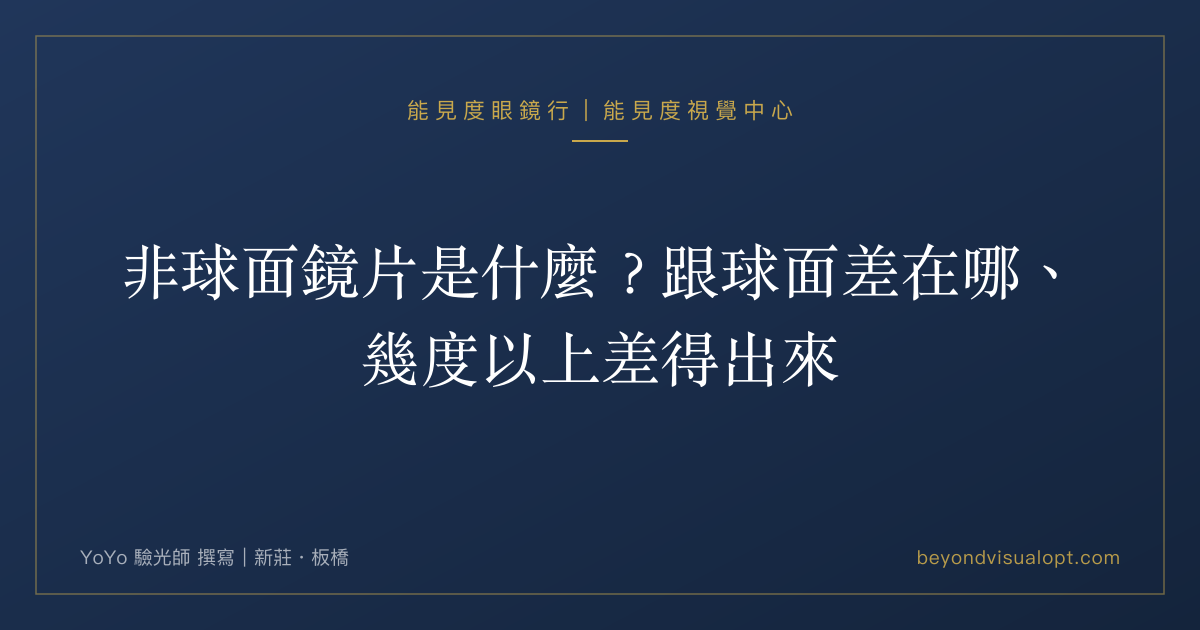
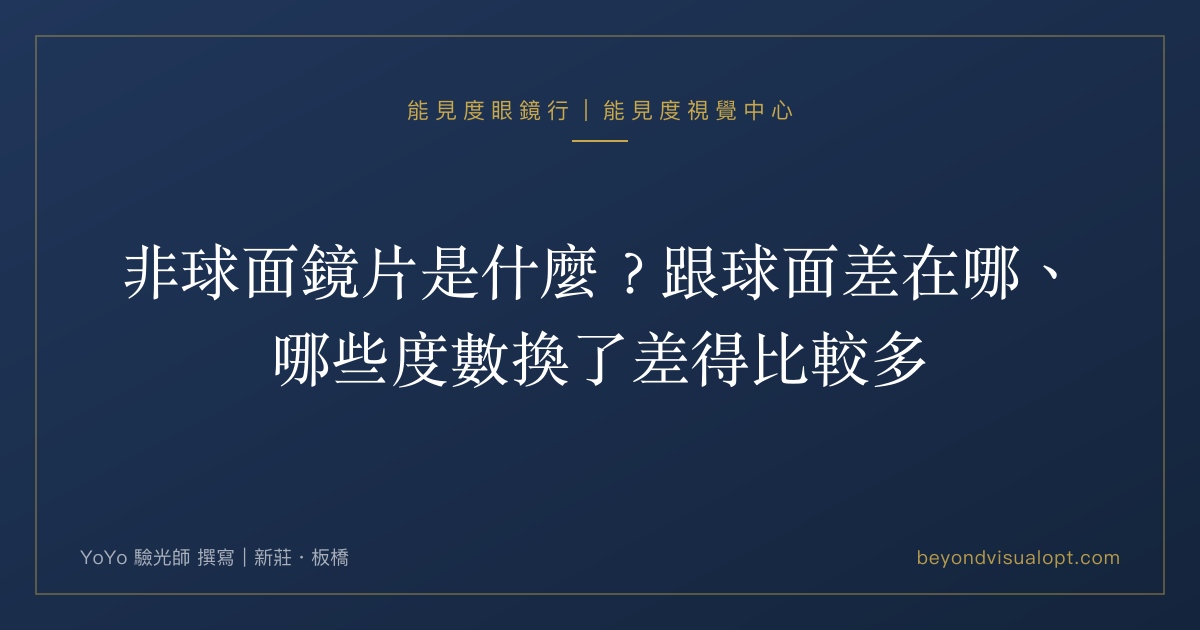
高度近視分類第 4 步：新增不等視、白內障單眼、高度近視看眼科 3 篇＋出處統一改國健署／EyeWiki（官網部→口語部→國文編審→法務，老闆過目）

Changed region(s): [[0.2158, 0.5127, 0.7708, 0.6333]]

diff --git a/src/data/categories.ts b/src/data/categories.ts
@@ -76,9 +76,9 @@ export const CATEGORIES: Category[] = [
   {
     slug: 'high-myopia', name: '高度近視', keyword: '高度近視眼鏡', guide: '/guide/high-myopia/',
     subs: [
-      { slug: 'fitting', name: '高度近視配鏡', guide: '/guide/high-myopia/', posts: ['high-myopia-glasses-guide', 'high-myopia-lens-brand-choice'] },
+      { slug: 'fitting', name: '高度近視配鏡', guide: '/guide/high-myopia/', posts: ['high-myopia-glasses-guide', 'high-myopia-lens-brand-choice', 'high-myopia-eye-check'] },
       { slug: 'astigmatism', name: '散光與變形', posts: ['astigmatism-glasses-distortion', 'myopia-vs-astigmatism'] },
-      { slug: 'anisometropia', name: '兩眼度數差很多', guide: '/guide/aniseikonia/', posts: [] },
+      { slug: 'anisometropia', name: '兩眼度數差很多', guide: '/guide/aniseikonia/', posts: ['anisometropia-glasses', 'cataract-one-eye-glasses'] },
     ],
   },
   {

diff --git a/src/content/blog/anisometropia-glasses.md b/src/content/blog/anisometropia-glasses.md
@@ -1,0 +1,117 @@
+---
+title: 兩眼度數差很多，眼鏡怎麼配？差幾度開始有感、低頭看書為什麼更暈
+date: 2026-10-25
+tag: "高度近視"
+excerpt: 左右眼度數差很多，眼鏡上會同時出現三件事：兩片一厚一薄、兩眼看到的東西一大一小、低頭時兩片鏡片把影像偏開的量不一樣。差多少開始有感，有常見參考值，沒有一刀切的門檻。框架眼鏡和隱形眼鏡各能做到哪裡、成人的兩眼度數能不能重新分配、小孩為什麼要先找眼科醫師，新莊、板橋能見度的驗光人員依序說明。
+seoTitle: 兩眼度數差很多怎麼配眼鏡？差幾度有感｜新莊板橋能見度
+seoDescription: 兩眼度數每差 100 度，戴框架眼鏡時兩眼影像大小約差 1%。差到 300 度以上可能超過 3%（AAO EyeWiki），低頭看書時兩片鏡片的上下稜鏡也不一樣。成人的兩眼度數怎麼分配，可以戴著試鏡架比較，孩子則先找眼科醫師。新莊、板橋能見度量得出兩眼影像大小差多少。
+keywords: 兩眼度數差很多, 左右眼度數不一樣, 兩眼度數差太多配眼鏡, 不等視眼鏡, 不等像, 兩眼度數差多少會暈, 新莊配眼鏡, 板橋配眼鏡, 能見度眼鏡
+references:
+  - title: "American Academy of Ophthalmology EyeWiki: Aniseikonia（框架矯正每 1D 不等視約產生 1% 不等像、3D 以上可能超過 3%、常見耐受參考 2%–3% 與個體差異、Knapp 定律）"
+    url: "https://eyewiki.org/Aniseikonia"
+---
+
+## 拿下隱形眼鏡以後，走到浴室要扶著牆
+
+他戴隱形眼鏡快十年，白天沒什麼問題。麻煩在晚上：鏡片一拿下來，手邊只剩一副好幾年前配的眼鏡，戴著從房間走到浴室，手要一路扶著牆。坐下來沒多久，他問：「左右眼差了三百度，是不是只能戴隱形眼鏡？」
+
+不一定只能戴隱形眼鏡，只是眼鏡要多顧幾件事。度數差到這個程度，兩片鏡片會在左右眼之間製造落差，厚薄、看出去的大小、低頭時視線穿過的位置，三樣都不一樣。讓他扶著牆走路的是哪一樣，得一項一項量。
+
+## 兩眼度數差多少會開始有感
+
+度數的單位是 D（屈光度），1.00D 就是平常說的 100 度。兩眼差多少會開始有感，沒有一條人人適用的線，倒是有常見的參考值。美國眼科醫學會（AAO）的 EyeWiki〈Aniseikonia〉條目給的經驗法則是：用框架眼鏡矯正時，兩眼度數每差 1D，兩眼看到的影像大小大約差 1%；兩眼差到 3D（300 度）以上，影像大小的差可能超過 3%，到了臨床上要留意的程度。同一條目也提到，常被拿來當耐受參考的範圍是 2% 到 3%。
+
+同一份資料緊接著就說，這個範圍因人而異：有人影像大小差不到 1%，立體感就受影響；也有人差到 10% 以上，立體感照樣正常。所以「我才差 250 度，應該還好吧」這種算法不太可靠。度數差之外，一天低頭看近多久、散光有沒有一起差、眼鏡坐在臉上的位置，都會改變感受。參考值的用處，是提醒驗光人員這一次要多量哪幾項。
+
+兩眼度數其實差不多，只是換了新眼鏡才開始暈，原因大概在別處，先拿自己的狀況去對[新眼鏡戴了頭暈正常嗎？](/blog/glasses-dizzy/)那張症狀表。
+
+## 兩眼度數差很多，眼鏡上會出現的 3 件事
+
+三件事一直都在，只是各挑不同的時候冒出來。
+
+### 兩片鏡片厚度不一樣
+
+度數越深，近視鏡片的邊緣就越厚。兩眼差三百度，同一支框裝上去，一片的側邊明顯比另一片寬，從正面看，一邊的鏡圈像是塞得比較滿。重量也跟著分出輕重，深的那一片重一些，鏡架戴久了，有時會往重的那邊斜一點，調鏡架時要把它算進去。
+
+厚度怎麼跟著折射率、鏡框大小走，[高度近視要選蔡司還是 HOYA？](/blog/high-myopia-lens-brand-choice/)的例子是兩支尺寸不同的框。兩眼差很多的人讀那篇，可以把左右眼的度數各代一次：同一支框，兩片的厚薄差會跟著框的大小一起放大。
+
+### 兩眼看到的大小不一樣
+
+鏡片除了把焦點對回來，也會改變東西看起來的大小。近視鏡片讓眼前的東西小一圈，遠視鏡片讓它大一圈，度數越深，這一圈越明顯。兩眼差很多時，深的那一眼透過鏡片看到的杯子、招牌、螢幕上的字，都比另一眼小一點。大腦拿到一大一小兩張影像，得一直出力把它們湊合起來，撐一整天下來，常見的是眼睛痠、頭發脹。
+
+影像大小不只跟度數有關，鏡片前表面的彎度（基弧）、中心厚度、鏡片離眼睛多遠，也都會牽動它。[不等像完整指南](/guide/aniseikonia/)的放大率那一段，把這四件事分開談了。
+
+### 視線往下，兩眼的稜鏡不一樣
+
+看遠的時候，視線大致從鏡片的光學中心附近穿過去。低頭看書、滑手機，或走路時看腳下，視線就移到鏡片下半部。鏡片在光學中心以外的位置，會把光往一側偏，偏多少，Prentice 法則算得出來：那一點離光學中心幾公分，乘上鏡片的度數，就是幾個稜鏡度。
+
+假設右眼 -2.00D、左眼 -5.00D，看書時視線往下移 8mm。右眼那片偏出 0.8 × 2＝1.6 個稜鏡度，左眼 0.8 × 5＝4.0 個，兩眼之間上下差了 2.4 個。眼睛往內、往外轉很靈活，一高一低的錯開，卻很難靠自己湊齊，所以有人看遠還好，一低頭就暈。開頭那位晚上走去浴室，眼睛盯著的正是腳下的地板。
+
+## 兩眼度數差很多，配鏡能下手的 3 個地方
+
+### 鏡片：先量影像大小差，再決定基弧與中心厚度
+
+影像大小既然跟基弧、中心厚度綁在一起，鏡片就不是只能照度數做。驗光人員會先量出兩眼影像大小差多少，再決定要不要在度數正確的前提下指定基弧與中心厚度，把差距拉近到比較好融合的範圍。能拉近多少，要看度數差與鏡框條件，量過才知道。
+
+低頭看近時兩眼的稜鏡差，在配鏡上有處理方式，需不需要，要量過才知道。兩眼的瞳距、瞳孔高度也要分開量，兩片鏡片的光學中心才會各自落在對的位置。
+
+### 鏡架：兩片鏡片離眼睛一樣遠
+
+鏡片離眼睛多遠，叫頂點距離。這段距離差個一兩毫米，眼睛實際收到的度數和看到的大小就跟著挪，度數越深挪得越多。兩眼差很多的人，深的那一邊對這段距離特別敏感：鼻托塌了一邊、鏡腳被撐開，兩片鏡片一前一後，兩眼原本的落差又被推開一點。鏡架因此要調到左右對稱，兩邊鏡片離眼睛一樣遠，之後鏡架變形了也要回來調。-4.00D 到 -10.00D 各會差多少，[頂點距離是什麼？高度數配眼鏡為什麼要算它](/blog/vertex-distance/)每一級都列了數字。
+
+### 隱形眼鏡：鏡片貼在眼睛上
+
+隱形眼鏡直接貼在角膜上，鏡片跟眼睛之間幾乎沒有距離，鏡片本身帶來的放大縮小，比框架眼鏡小得多。眼睛往哪裡轉，鏡片就跟到哪裡，低頭看書，前面講的那種一高一低的錯開，隱形眼鏡不會有。不過 Knapp 定律提醒了另一面。理論上，度數差出在角膜或水晶體的人，換成隱形眼鏡，兩眼影像大小會比較靠近；度數差出在眼球長短的人，反倒可能是框架眼鏡讓兩眼大小比較接近。眼睛不見得照理論長，要量了才算數。
+
+隱形眼鏡再合適，晚上、眼睛不舒服、生病的日子還是要拿下來，所以就算平常戴隱形眼鏡，手邊那副眼鏡也值得配到戴得住。能不能戴、戴哪一種，驗光人員要先檢查過眼睛；依驗光人員法第十二條，十五歲以下者的隱形眼鏡驗配須在眼科醫師指導下為之，未滿六歲者不予驗配。
+
+#### 硬式隱形眼鏡（RGP）
+
+想試 RGP，新莊或板橋都可以。鏡片硬、形狀固定，配之前要先看角膜的形狀，試戴片一片一片確認貼合；日常的戴法和清潔，留給[RGP 硬式隱形眼鏡完整指南](/guide/rgp-contact-lens/)。
+
+#### 軟式隱形眼鏡
+
+軟式鏡片順著角膜的形狀服貼，規範一樣照上面那條第十二條。度數深的那一眼散光多不多、一天要戴幾個小時，都會影響選擇，現場檢查過再談。
+
+## 孩子的視力單一眼好、一眼差，診斷和治療在眼科
+
+學校的視力檢查單帶回家，一眼看到最下面幾行，另一眼掉了好幾行，孩子自己卻說看得很清楚。左右眼差這麼多，背後可能跟弱視、斜視有關；是不是、要怎麼治療，都由眼科醫師診斷和處理。要不要戴眼鏡、度數怎麼給、需不需要其他處置，都照眼科醫師的安排。
+
+配鏡的先後，法規也排好了：依《驗光人員法》第十二條與施行細則，未滿六歲不得由驗光人員驗光；六歲到十五歲第一次驗光配鏡，須先經醫師確診為非假性近視；十五歲以下的驗光，在眼科醫師指導下進行。孩子幾歲該顧什麼，[兒童近視追蹤完整指南](/guide/children-myopia/)照年齡一段段排好了。
+
+## 新莊、板橋門市資訊與預約
+
+雙眼視覺評估是每一次驗光都有的，兩間店一樣。兩眼度數差很多，要量的比一般多：完整驗光 45–60 分鐘，再加上多出來的那幾項，大約要 60–90 分鐘。新莊店的 TOPCON CA-800，每位顧客的角膜都會拍，考慮隱形眼鏡時，角膜的形狀是先要看的資料；板橋店有裂隙燈。
+
+- 能見度視覺中心（比泱驗光所），新莊店：新北市新莊區中正路 419-1 號，捷運新莊站，02-2206-6700，YoYo 驗光師主理
+- 能見度眼鏡行（能見度驗光所），板橋店：新北市板橋區雙十路二段 47 巷 28 號，捷運江子翠站，02-2253-1246
+
+取件後 2 週內，門市會主動追蹤，這段時間低頭看書或上下樓梯覺得不對勁的，到時候一起說；在能見度配的眼鏡，取件後的鏡架調整不另外收費。十五歲以下的孩子，請照上一段先給眼科醫師檢查。成人可以直接到[預約視覺諮詢](/booking/)約新莊或板橋的時間。
+
+## 深的那一眼少給一點，厚薄與稜鏡的落差也跟著縮小
+
+前面講的鏡片、鏡架、隱形眼鏡，都把驗光單上的度數當成不動的那一項，再去顧它帶出來的落差。單子上那兩個數字，是每一眼各自讀到最清楚的那一格；兩眼差很多時，深的那一眼配到最清楚，那片鏡片的厚度、低頭時把影像偏開的量也一起到頂，兩眼在這兩項上的落差就被推到最大。
+
+成人兩眼度數差很多，度數本身也能拿出來談。深的那一眼少給一點，那一眼看遠會軟一些，換來的是兩片鏡片的厚薄差、低頭看近時的稜鏡差都跟著縮小。兩眼影像大小的差就不一定會縮：前面 Knapp 定律那一段提過，要看度數差出在眼球長短（眼軸），還是出在角膜、水晶體，得量了才知道。有人試過，覺得兩眼一起看出去穩多了；也有人寧可每一眼都清楚，落差交給鏡片參數和鏡架去顧。適合哪一種，得戴著試鏡架、兩隻眼睛都睜開來看，看遠處，也低頭看手機，再站起來走幾步。常開車的人，看遠要夠清楚，深的那一眼能少給的空間就小。
+
+這跟一般人「度數配淺一點」不太一樣。[眼鏡度數要配足，還是配淺一點？](/blog/glasses-prescription-full-or-less/)提過，兩眼度數相近的人只退一眼，會讓兩眼一清一糊，所以要退的話，兩眼通常一起退。兩眼差很多的人要顧的平衡多了一層：除了兩眼清不清楚，還有兩張影像大小合不合、上下齊不齊。舊眼鏡和隱形眼鏡的度數也帶著，試的時候，拿現在戴慣的那一組當起點。
+
+這個討論只限成人。孩子度數深的那一眼要是一直看不清楚，牽涉到弱視，度數怎麼給由眼科醫師決定，不在試鏡架上商量。
+
+## 左右眼度數不一樣，配眼鏡常見問題
+
+### Q：兩眼度數差很多，可以一眼配淺一點嗎？
+
+成人可以討論。兩眼度數差很多時，度數深的那一眼少配一些，那片鏡片的厚度和低頭看近時的稜鏡差會小一點，代價是那一眼看遠沒那麼銳利。兩眼影像大小的差會不會一起變小，要看度數差出在哪裡，得量了才知道。要不要這樣配、少配多少，要戴著試鏡架看遠、看近都比較過才定。常開車的人看遠不能打太多折，能少配的就有限。十五歲以下的孩子不在此列，度數依眼科醫師的指示。
+
+### Q：兩眼度數差很多，眼鏡戴久了為什麼容易歪一邊？
+
+度數深的那一片比較厚、也比較重，鏡架長時間戴下來，有時會往重的那一邊斜；鼻托塌了一邊、鏡腳被撐開，也會讓兩片鏡片一前一後。兩眼度數差很多的人，深的那一眼對鏡片離眼睛多遠特別敏感，鏡架一歪，兩眼原本的落差就又被推開一點。覺得眼鏡歪了，就帶回門市調。
+
+### Q：兩眼度數差很多，可以配多焦點嗎？
+
+可以評估，不過要多看一件事。多焦點鏡片看近的區域在鏡片下方，看書時視線往往比戴單光眼鏡時更往下，兩片鏡片在那個位置的上下稜鏡差也就更大。這在配鏡上有處理方式，需不需要，要量過才知道。兩眼的配鏡高度要分開量，鏡架左右也得調到一樣高，看近的區域才會落在兩眼視線經過的地方。多焦點本身怎麼挑、剛戴怎麼適應，翻開[老花眼鏡完整指南](/guide/progressive-lens/)就有。
+
+---
+
+兩眼度數差很多的人，眼鏡要過的那一關，常常不在視力表最下面那一行，在晚上從房間走到浴室的那幾步路。

diff --git a/src/content/blog/high-myopia-eye-check.md b/src/content/blog/high-myopia-eye-check.md
@@ -1,0 +1,96 @@
+---
+title: "高度近視為什麼要定期看眼科？視網膜剝離、黃斑部病變與青光眼"
+date: 2026-10-25
+tag: "高度近視"
+excerpt: "高度近視多半是眼軸拉長，眼球前後變長，裡面那層視網膜跟著被撐薄。依國健署公開衛教資料與美國眼科醫學會 EyeWiki，這樣的眼睛往後碰上視網膜剝離、黃斑部病變、青光眼的機會較高，要由眼科醫師檢查；飛蚊、閃光突然變多請當天就醫。"
+seoTitle: "高度近視要看眼科嗎？眼底檢查與視網膜剝離、黃斑部病變、青光眼"
+seoDescription: "600 度以上的近視大多是眼球前後變長，視網膜跟著變薄，三種眼睛疾病的機會較高，要由眼科醫師檢查。多久檢查一次、眼底要不要一併查，由眼科醫師依眼睛狀況決定；飛蚊、閃光突然多起來，當天就去眼科。"
+keywords: "高度近視眼底檢查,高度近視視網膜剝離,高度近視要看眼科嗎,高度近視多久檢查一次,高度近視併發症,近視性黃斑部病變,青光眼,新莊配眼鏡,板橋配眼鏡"
+---
+
+## 「眼鏡配好了、看得很清楚，還需要看眼科嗎？」
+
+新眼鏡一戴上，先往窗外看，找最遠那塊招牌上的小字，再低頭滑一下手機。遠的近的都清楚了，有人會順口補一句：「那這樣，還需要去看眼科嗎？」近視在 600 度以上的話，答案是要，理由不在這副眼鏡上。
+
+## 高度近視多半是眼球變長，視網膜跟著被撐薄
+
+一般的眼睛，光線穿過角膜和水晶體，剛好在最裡面那層視網膜上對焦。近視是焦點落得太早，光還沒走到視網膜就先聚起來了。度數深到 600 度以上，最常見的原因是眼球前後的長度，也就是眼軸，長得比一般人長。焦點其實沒有往前跑，是那面牆往後退了。
+
+眼球變長，包在外面的那幾層並不會多長出材料。同一片組織要鋪滿更大的面積，只能被撐開。EyeWiki 是美國眼科醫學會經營的眼科知識庫，裡面寫著，眼軸拉長會讓視網膜、脈絡膜和鞏膜一起變薄。拿一顆氣球來想：吹得越大，橡皮並沒有變多，只是越來越薄，對著燈看，最鼓的那一面甚至會透光。
+
+戴上眼鏡，鏡片把焦點往後送，重新落回視網膜上，看出去就清楚了。可是那層被撐薄的組織，鏡片碰不到。眼鏡戴再多年，也不會讓它厚回來；高度近視要定期給眼科醫師看，盯的就是這一層。
+
+## 高度近視風險較高的 3 種眼睛疾病
+
+依國健署公開衛教資料與美國眼科醫學會 EyeWiki，眼睛近視到這個程度，往後碰上下面三種疾病的機會比一般人高（[國健署「近視是疾病 打敗惡視力」宣導海報](https://www.hpa.gov.tw/Pages/Detail.aspx?nodeid=864&pid=10140)；三種疾病各自的 EyeWiki 條目列在每一段後面）。每一種都要由眼科醫師檢查、診斷，這裡只講它們是什麼。
+
+### 視網膜剝離
+
+視網膜是貼在眼球內壁的一層薄膜，負責把光變成訊號送進大腦。視網膜剝離，就是這層膜跟底下那一層分開了，中間積了液體。EyeWiki 把高度近視列為「裂孔性視網膜剝離」的風險因子：視網膜先破了一個小洞，液體從洞口滲到底下，膜就被一點一點掀起來。剝離前後常見的感覺，是飛蚊突然變多、眼角出現閃光，或視野有一塊像被簾子遮住。有沒有裂孔、有沒有剝離、要怎麼處理，都由眼科醫師檢查後決定。
+
+定義參考：[AAO EyeWiki〈Retinal Detachment〉](https://eyewiki.org/Retinal_Detachment)
+
+### 黃斑部病變
+
+黃斑部在視網膜正中央，看字、認臉、穿針這類要看細節的事，靠的都是它。高度近視這裡講的是近視性黃斑部病變：眼球被撐長以後，黃斑部附近的組織變薄、萎縮，可能出現細小的裂紋，或長出不該長的新生血管。它跟年紀大才出現的老年性黃斑部病變，是不同的成因。EyeWiki 描述的感覺，是正中間一小塊糊掉、出現暗點，或直線看起來彎彎的。黃斑部是不是出了問題、是哪一種，眼科醫師檢查過才說得準。
+
+定義參考：[AAO EyeWiki〈Pathologic Myopia (Myopic Degeneration)〉](https://eyewiki.org/Pathologic_Myopia_(Myopic_Degeneration))
+
+### 青光眼
+
+青光眼是視神經慢慢受損，視野從邊緣開始一點一點缺掉。EyeWiki 在隅角開放型青光眼那一篇寫到，好幾項研究都顯示近視是它的風險因子；而且這種青光眼通常要到視野已經缺了一大塊，本人才會察覺。也因為早期幾乎沒感覺，只能靠眼科醫師量眼壓、看視神經、做視野檢查，判斷有沒有青光眼、需不需要追蹤。
+
+定義參考：[AAO EyeWiki〈Primary Open-Angle Glaucoma〉](https://eyewiki.org/Primary_Open-Angle_Glaucoma)
+
+## 飛蚊突然變多、眼角一直閃光，當天就去眼科
+
+三種病裡，有的會先給一點訊號。眼前的黑點、細絲一下子多了一大把，或眼角一直有閃光，請當天就去看眼科，別拖到原本約好的回診日，也不必先來配眼鏡。視野邊緣好像有一片東西擋著、正中間突然糊掉、直線變彎，也請儘速到眼科。
+
+青光眼大多不會這樣提醒你，這也是高度近視的人要照時間去檢查的原因。其他的不舒服，拿不準該先找誰的，[眼睛不舒服要掛眼科還是去驗光所](/guide/eye-doctor-or-optometrist/)就是為這種時候寫的。
+
+## 看眼科的那一趟，醫師會看哪些地方
+
+高度近視的人去眼科，醫師關心的是眼球裡面的結構：視網膜周邊有沒有變薄或破洞、黃斑部好不好、視神經的樣子，還有眼壓。實際要做哪幾項、要不要加做影像檢查，依眼科醫師判斷。
+
+多久去一次，也由眼科醫師依你的眼睛狀況決定，不要自己估。
+
+掛號時直接講自己近視大概幾度、戴眼鏡戴了多少年，醫師安排檢查時就多一條線索。以前做過雷射、動過眼睛手術，或家裡有人得過視網膜剝離、青光眼，也一起說。
+
+## 新莊、板橋門市資訊與預約
+
+到店裡，先驗光、做雙眼視覺評估；框挑好戴上之後，再量頂點距離、單眼瞳距和配鏡高度，兩間店都做這幾項。
+
+驗光途中你說這陣子眼前的飛蚊、閃光一下子多了，我們會請你當天就去眼科，眼鏡改天再配。度數已經調到最合適，視力表上還是有幾行讀不出來的，驗光人員會照《驗光人員法》第十二條第三項，轉介眼科醫師。
+
+兩間店的位置：
+
+- 捷運新莊站附近：新莊店，能見度視覺中心（比泱驗光所），新北市新莊區中正路 419-1 號，02-2206-6700，YoYo 驗光師主理
+- 捷運江子翠站附近：板橋店，能見度眼鏡行（能見度驗光所），新北市板橋區雙十路二段 47 巷 28 號，02-2253-1246
+
+要配眼鏡，用[預約視覺諮詢](/booking/)挑時段，那天留一個半小時左右。
+
+## 眼科說眼底沒事，眼鏡這一邊還沒算完
+
+聽到醫師說眼底沒事，很容易連臉上那副眼鏡也一起放了心。眼底檢查看的是眼球裡面；鏡片坐在眼前哪個位置，不在那一趟的範圍裡，而度數深的人，偏偏對這個位置最敏感。
+
+拿右眼 -8.00D、左眼 -10.00D 來算，新框比舊框貼近 2mm，用 Fc＝F ÷（1 − dF）換一下：右眼 -8.00 ÷〔1 − 0.002 ×（-8.00）〕＝ -8.00 ÷ 1.016 ≒ -7.87D，左眼 -10.00 ÷ 1.02 ≒ -9.80D。度數照舊訂，右眼等於多給了約 0.13D，大概 13 度；左眼多了約 20 度。
+
+兩眼各自多出來的量不一樣，兩眼之間原本的度數差，也就不是驗光單上寫的那個數了。每換一支框，頂點距離和兩眼的度數都得照新框重算，舊單子不能直接拿去訂；量法在[高度近視配眼鏡要量哪幾項？](/blog/high-myopia-glasses-guide/)講頂點距離的那一段。
+
+## 高度近視眼睛健康常見問題
+
+### Q：高度近視做眼底檢查，一定要散瞳嗎？
+
+要不要散瞳、做哪幾項，依眼科醫師判斷。散瞳是點藥讓瞳孔放大，醫師比較容易看到視網膜周邊；點完之後有一段時間可能會怕光、看近模糊。預約眼科時，可以先問清楚當天會不會散瞳，會的話，回程最好別自己開車。散瞳屬醫療行為，由眼科醫師進行，驗光所不做。
+
+### Q：高度近視一定會得這些病嗎？
+
+不一定。依國健署公開衛教資料與美國眼科醫學會 EyeWiki，高度近視會讓視網膜剝離、黃斑部病變、青光眼的機會變高，講的是機率，不是每個人都會走到那一步。比較麻煩的是像青光眼這種，早期幾乎沒有感覺，所以多久檢查一次，交給眼科醫師依你的眼睛狀況決定。
+
+### Q：配眼鏡的時候，驗光人員看得出視網膜有沒有問題嗎？
+
+看不出來。能見度兩間店都沒有眼底檢查的設備，也不量眼軸。新莊店那台 TOPCON CA-800 角膜地形圖暨像差儀，照出來的是角膜表面的形狀，沒有拍眼底的功能。視網膜的狀況要找眼科醫師。要是驗光那天，矯正視力停在正常值以下，換到哪一組鏡片都沒有起色，驗光人員會照《驗光人員法》第十二條第三項，把你轉介給眼科醫師。
+
+---
+
+窗外那塊招牌看清楚之後，眼科回診的日子，也照醫師排的去。

diff --git a/src/content/blog/cataract-one-eye-glasses.md b/src/content/blog/cataract-one-eye-glasses.md
@@ -1,0 +1,98 @@
+---
+title: 白內障只開了一眼，眼鏡怎麼配？術後兩眼度數差很多的那段時間
+date: 2026-10-25
+tag: "高度近視"
+excerpt: 一眼做完白內障手術、另一眼還沒開，舊眼鏡戴上去反而暈，拿掉眼鏡也看不了書。術後那一眼的度數換了，兩眼的落差可能一下子拉到好幾百度，影像大小和看近的度數都會跟著變。手術和術後多久能配，聽眼科醫師的。過渡期那副眼鏡可以往哪幾個方向配，新莊、板橋能見度把常見的三種攤開來談。
+seoTitle: 白內障開完一眼怎麼配眼鏡？另一眼還沒開的過渡期｜新莊、板橋能見度
+seoDescription: 白內障手術換上人工水晶體後，開過的那一眼度數會變，跟沒開的那一眼可能差好幾百度，戴回舊眼鏡容易暈，看近也可能要另外加度數。術後多久能配，等眼科醫師說度數穩定再配；過渡期常見的方向有舊眼鏡只換一片、隱形眼鏡、先暫用，哪一種適合依醫師建議與驗光評估。
+keywords: 白內障手術後配眼鏡, 單眼白內障術後眼鏡, 白內障開完一眼, 白內障術後多久可以配眼鏡, 兩眼度數差很多, 新莊配眼鏡, 板橋配眼鏡, 能見度眼鏡
+---
+
+## 右眼開完白內障，戴回舊眼鏡反而暈
+
+右眼上個月做完白內障手術，左眼醫師說再等等。眼鏡拿下來，右眼看遠清清楚楚，左眼一片霧；戴回去，左眼清楚了，換右眼糊掉，兩眼一起看，整個人發暈。更麻煩的是看書：以前眼鏡一摘、報紙拿近一點就看得到，現在右眼不行了。
+
+## 手術換掉水晶體，度數也跟著換了
+
+水晶體是眼球裡的一片透鏡。白內障手術把它取出來，換上一片人工水晶體，而人工水晶體要選多少度，依眼科醫師建議，開刀前就定好了。所以開過的那一眼，度數跟術前可能已經是兩回事。
+
+度數深的人，這個落差格外明顯。拿兩眼原本都是 -6.00D 來說，假設開過的那一眼術後落在 0 度附近，另一眼還是 -6.00D，術後兩眼就差了 600 度。臉上那副眼鏡的兩片鏡片是照術前度數做的，現在只對得上沒開的那一眼。戴也不是、不戴也不是，就是這樣來的。
+
+## 一眼開完、一眼還沒開，兩眼會差在哪
+
+差到幾百度，麻煩就不只是哪一眼看不清楚。
+
+### 同一個東西，一邊看起來小一號
+
+透過近視鏡片看出去，東西會小一號，-6.00D 這種度數已經看得出來。一眼前面掛著 -6.00D 的鏡片，另一眼前面幾乎沒有度數，同一個東西看出去一邊小一點、一邊照原樣，大腦要把兩張影像疊成一張就吃力。眼睛往下看書的時候，視線落到鏡片下半部，一片幾乎不偏、一片偏得多，兩眼的影像還會上下錯開。
+
+這種情況有個名字，叫不等像。放大率受哪些條件左右、配鏡時能動到哪裡，[兩眼度數差很多：不等像完整指南](/guide/aniseikonia/)裡都有。
+
+### 看近可能要另外的度數
+
+原本的水晶體能自己變厚、變薄，看近時把焦點拉過來。人工水晶體有不同的設計，有的主要對在遠方，有的兼顧遠近；你放的是哪一種，開刀的眼科醫師手上有資料。主要對在遠方的那一種，看手機、看文件通常要另外加一點看近的度數。
+
+高度近視的人會特別有感。近視深的眼睛，本來就看得清近處，所以以前摘掉眼鏡就能看書；開過的那一眼不再近視，這一招就用不上了。過了四十歲，沒開刀的那一眼也有老花在走，看近要配單獨一副、遠近分開，還是漸進多焦點，各適合哪種人，[老花眼鏡完整指南](/guide/progressive-lens/)有一張方案表。
+
+## 術後多久可以配，先問眼科醫師
+
+等眼科醫師說度數穩定了再配，多久依醫師判斷。每個人不一樣，日子我們不會替醫師給。
+
+醫師點頭之後來驗光，請把眼科給的術後度數，或其他跟這次手術有關的資料帶著，驗光人員拿來跟當天驗出來的結果對一對。另一眼什麼時候開、要不要開，也先問清楚。術後眼睛要是出現跟平常不一樣的狀況，直接回開刀的那間眼科，不必等到配眼鏡那天；要先看眼科的情況不只這一種，[配眼鏡前要先看眼科嗎？](/blog/eye-exam-before-glasses/)裡還有別的。
+
+## 過渡期的幾種做法
+
+一眼開完、一眼還沒開的這段日子，常見的走法有三種。哪一種適合，依眼科醫師建議與驗光評估，也跟你每天要做的事有關：開不開車、看不看螢幕、書看得多不多。
+
+### 舊眼鏡只換開過刀那一眼的鏡片
+
+框留著，照術後的度數換掉開過刀那一眼的鏡片，另一片不動。能見度有只配鏡片的服務。自帶框的加工費依框型不同，做之前會先報給你；舊框能不能拆裝，要先看過框況。鏡片得另外做：庫存片 3–5 個工作天，訂製片 7–10 個工作天。[只配鏡片、鏡框自己帶可以嗎？](/blog/lens-only-service/)提醒了來店前要帶的兩樣東西。
+
+只換一片，兩片鏡片的度數還是差一大截，前面說的大小不一，換完也還在。
+
+### 隱形眼鏡
+
+度數還深的那一眼改戴隱形眼鏡。它直接戴在眼睛上，眼睛往下看，它也跟著往下，看書時眼前一直是鏡片中央，不會有鏡片下半部把影像偏開的事。兩眼影像大小能不能因此靠近一些，現場量了才有答案。
+
+成人才考慮這一條。兩隻眼睛各自能不能戴，先問眼科醫師，再讓驗光人員檢查角膜和淚液後決定。依《驗光人員法》第十二條，十五歲以下的隱形眼鏡驗配要在眼科醫師指導下進行，未滿六歲不驗配。
+
+### 先暫用
+
+先不做新的，手上的眼鏡照舊戴，等兩眼的度數都定下來，再一次重新驗光。暈得厲害、已經影響到開車騎車的話，就不適合硬撐，先跟眼科醫師和驗光人員講。
+
+## 新莊、板橋門市資訊與預約
+
+術後兩眼差這麼多，驗光人員會先量左右眼的影像大小差了多少，往下瞄著看近時，兩眼影像上下錯開多少也一起算；基弧、中心厚度要不要另外指定，在度數正確的前提下再決定。能拉近多少，量過才知道。
+
+驗光要 45–60 分鐘，過渡期要怎麼配也得坐下來談，加起來 60–90 分鐘，那天後面的行程別排太緊。取件後 2 週內，門市會主動追蹤；在能見度配的眼鏡，取件後的鏡架調整不另外收費。
+
+- 新北市新莊區中正路 419-1 號，捷運新莊站：能見度視覺中心（比泱驗光所），02-2206-6700，YoYo 驗光師主理
+- 新北市板橋區雙十路二段 47 巷 28 號，捷運江子翠站：能見度眼鏡行（能見度驗光所），02-2253-1246
+
+等眼科醫師那邊說可以了，就帶著舊眼鏡，在[預約視覺諮詢](/booking/)排一天過來。
+
+## 等第二眼手術的這段期間，眼鏡只能先求過得去
+
+站在眼鏡行的位置，整副重配、鏡片往上挑，都是做得成的生意。可是過渡期這副眼鏡能戴多久，由第二眼的手術日決定，鏡片挑得再好也延長不了：第二眼開完、度數穩定以後，兩眼的度數又會再變一次，這一副到時候大概就要退場。
+
+所以這段期間的眼鏡，目標不妨放低一點：每天非做不可的那幾件事看得清楚，戴著不至於暈到想摘掉，就算過關。一眼開過、一眼沒開，度數差擺在那裡，要戴回手術前那種兩眼一起看的輕鬆，本來就很難。
+
+第二眼什麼時候開，是眼科醫師跟你排的。排得近，先暫用常常就夠了；要是中間隔得久，每天又得長時間盯螢幕、看書，過渡期多花點力氣才划得來。
+
+## 白內障術後配眼鏡常見問題
+
+### Q：白內障手術後多久可以配眼鏡？
+
+什麼時候能配，由開刀的眼科醫師決定：回診時醫師確認度數穩定了，就可以來驗光配鏡。每個人要等的時間長短不同。來的時候，眼科給的術後度數或相關資料記得帶上。
+
+### Q：只開一眼，舊眼鏡換一片鏡片可以嗎？
+
+舊框禁得起拆裝的話，可以考慮。只換開過刀那一眼的鏡片、另一片不動，是一眼開完時常見的做法之一；不過換完之後，兩片度數一樣差很多，影像一大一小不會因此消失，要不要這樣做，眼科醫師的建議和驗光的結果都要看。加工費看框型，動工前會先報價。
+
+### Q：兩眼都開完，還需要戴眼鏡嗎？
+
+要看人工水晶體的度數設計，也依眼科醫師建議。看近或看遠要不要再戴眼鏡，要等驗過才確定。兩眼都穩定以後，重新做一次完整驗光，開車、看書、盯螢幕各需要多少度數，那時候才定得下來。
+
+---
+
+正式那一副不急，等第二眼也開完、度數穩了再談。

diff --git a/src/content/blog/high-school-vision-stability.md b/src/content/blog/high-school-vision-stability.md
@@ -55,7 +55,7 @@ keywords: "高中生近視,十五歲驗光規定,驗光人員法第十二條,高
 
 ## 高度近視：配鏡我們來，眼底檢查交給眼科
 
-高度近視要盯的，從來不是視力表上那個數字。要盯的東西在眼科的檢查室裡，不在我們的驗光椅上。500 度以上的眼睛，未來發生視網膜剝離、黃斑部病變、青光眼的風險顯著較高（依國健署與眼科醫學會公開衛教資料），而這些變化在早期不一定讓你覺得看不清楚。眼底檢查是眼科的項目，驗光所不做。
+高度近視要盯的，從來不是視力表上那個數字。要盯的東西在眼科的檢查室裡，不在我們的驗光椅上。500 度以上的眼睛，未來發生視網膜剝離、黃斑部病變、青光眼的風險顯著較高（依國健署公開衛教資料與美國眼科醫學會 EyeWiki），而這些變化在早期不一定讓你覺得看不清楚。眼底檢查是眼科的項目，驗光所不做。
 
 所以那 35.7% 的人比別人多一份功課：眼科檢查要定期去，不是等到看不見了才掛號。過了十五歲，沒有人會再逼你先看眼科。什麼時候該去，這個判斷就落回自己手上。
 

diff --git a/src/content/blog/high-myopia-lens-brand-choice.md b/src/content/blog/high-myopia-lens-brand-choice.md
@@ -134,7 +134,7 @@ keywords: "高度近視鏡片,蔡司還是HOYA,鏡片邊緣厚度,1.74鏡片,鏡
 
 來之前先想好一件事：最薄、那支框的樣子、視覺表現最穩，三個裡面你最在意哪一個。高度數配鏡幾乎一定要在這三者之間取捨，順序先定，挑框時就不用繞路。已經看上的框，直接戴來，框心距跟你的瞳距差多少，現場量完就曉得會厚在哪一邊。那天請空出 60–90 分鐘，量測是一項等一項做的，時段在[預約視覺諮詢](/booking/)挑。
 
-還有一件事跟眼鏡無關：高度近視發生視網膜剝離、黃斑部病變、青光眼的風險較高（依國健署與中華民國眼科醫學會公開衛教資料），這部分請定期給眼科醫師檢查，多久一次照醫師的建議。配鏡量的是度數和鏡片的位置，看不到眼底。
+還有一件事跟眼鏡無關：高度近視發生視網膜剝離、黃斑部病變、青光眼的風險較高（依國健署公開衛教資料與美國眼科醫學會 EyeWiki），這部分請定期給眼科醫師檢查，多久一次照醫師的建議。配鏡量的是度數和鏡片的位置，看不到眼底。
 
 ---
 

diff --git a/src/content/blog/junior-high-myopia-peak.md b/src/content/blog/junior-high-myopia-peak.md
@@ -59,7 +59,7 @@ keywords: "國中生近視,國三近視率,兒童高度近視,學童度數追蹤
 
 ### 國三那 28.0%：把眼底檢查排進行事曆
 
-高度近視這件事得講得更白一點。500 度以上的眼睛，未來發生視網膜剝離、黃斑部病變、青光眼的風險顯著較高（依國健署與眼科醫學會公開衛教資料），而這跟看不看得清楚是兩回事——孩子戴上眼鏡在視力表上量到 1.0，風險一樣在那裡。國三那 28.0% 的孩子要多做的，是把定期眼底檢查排進行事曆，像每年提醒自己去洗牙那樣固定，那是眼科的項目。
+高度近視這件事得講得更白一點。500 度以上的眼睛，未來發生視網膜剝離、黃斑部病變、青光眼的風險顯著較高（依國健署公開衛教資料與美國眼科醫學會 EyeWiki），而這跟看不看得清楚是兩回事——孩子戴上眼鏡在視力表上量到 1.0，風險一樣在那裡。國三那 28.0% 的孩子要多做的，是把定期眼底檢查排進行事曆，像每年提醒自己去洗牙那樣固定，那是眼科的項目。
 
 ## 國中生近視常見問題
 
